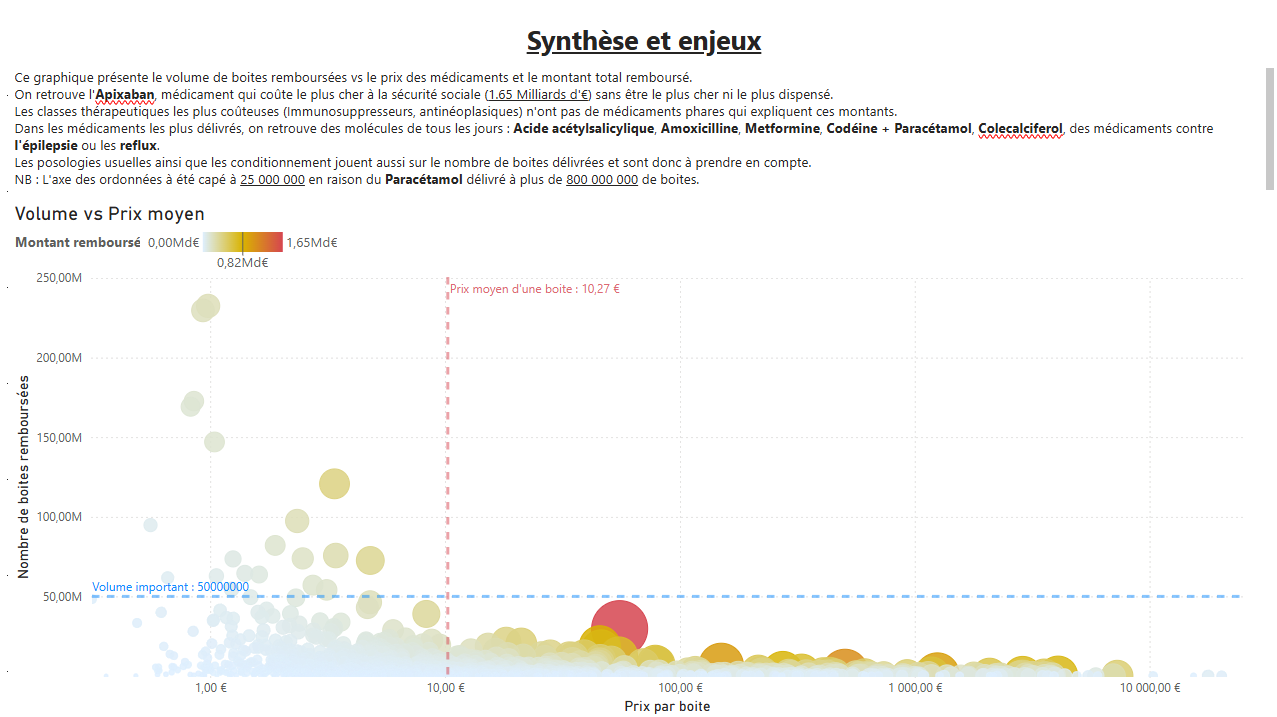
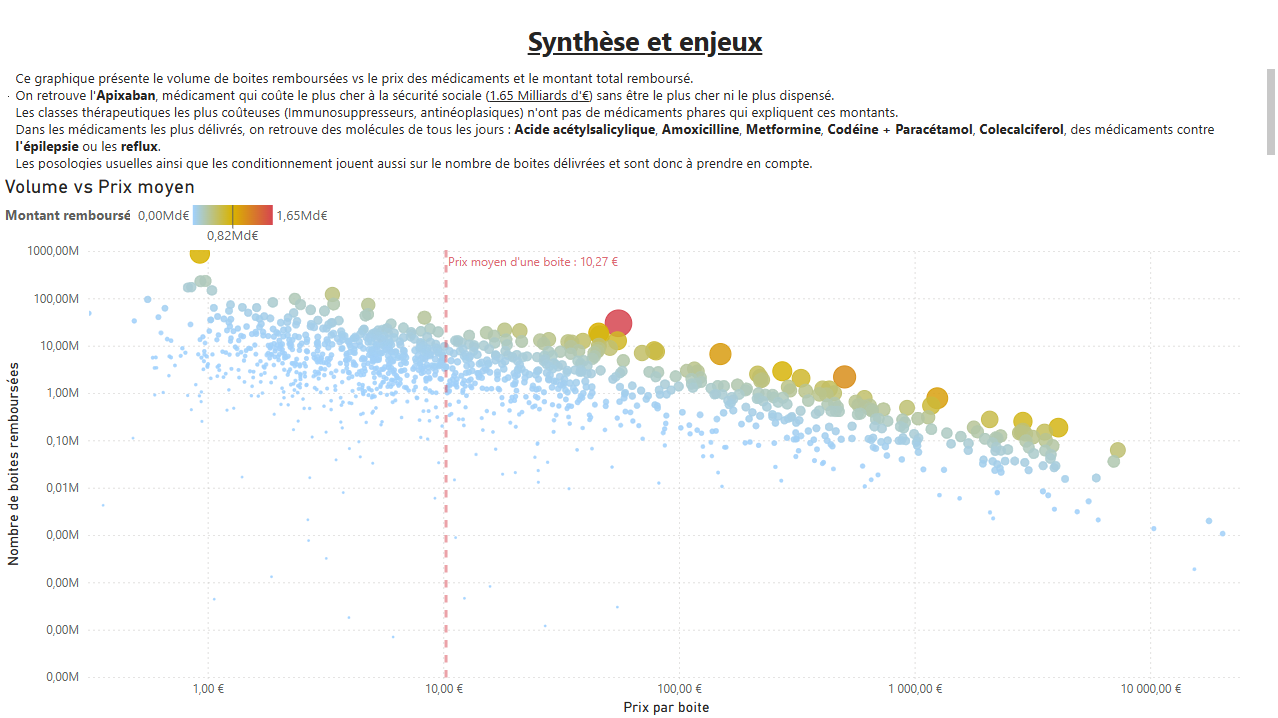
ajout synthèse

diff --git a/app_pages/medicaments.py b/app_pages/medicaments.py
@@ -113,7 +113,7 @@ def render():
 
     with col7:
         if depenses_path.exists():
-             st.image(str(depenses_path), caption="Analyse détaillée du Top 5", use_column_width=True)
+             st.image(str(depenses_path), caption="Analyse des Dépenses par Substances chimiques", use_column_width=True)
         else:
              st.warning(f"Image non trouvée : {depenses_path}")
 
@@ -157,15 +157,55 @@ def render():
         **Choix méthodologiques :**
         * Pour les **montants totaux**, le dashboard affiche `SUM(Montant_remboursé)` tel que publié dans la base publique :  
         cela reflète la **dépense comptable enregistrée** par l’Assurance Maladie, même si certains montants peuvent être inférieurs à ce qu’ils “devraient” être en théorie.
-        * Pour les **prix moyens par boîte**, une mesure dédiée (non montrée ici mais utilisée ailleurs dans le rapport) ne tient compte que des **lignes effectivement remboursées** (`Montant_remboursé > 0`), afin d’éviter de mélanger :
-            * les boîtes réellement prises en charge par l’AMO,
-            * et les délivrances hors remboursement (0 €) ou manifestement mal codées.
+
 
         Ce cas illustre l’importance de :
-        * confronter les données Open Data à la réalité médico‑économique,
-        * documenter les limites et anomalies repérées,
-        * et adapter les indicateurs (ici, les prix moyens) pour qu’ils restent interprétables.
+        * Confronter les données Open Data à la réalité médico‑économique.
+        * Documenter les limites et anomalies repérées.
         """)
+
+    st.divider()
+
+    # --- SLIDE 5 : SYNTHÈSE & ENJEUX ---
+    st.header("5. Synthèse et enjeux")
+
+    col9, col10 = st.columns([2, 1])
+
+    with col9:
+        if synthese_path.exists():
+             st.image(str(synthese_path), caption="Volume vs Pris moyen (échelle log) - Synthèse globale", use_column_width=True)
+        else:
+             st.warning(f"Image non trouvée : {synthese_path}")
+
+
+    with col10:
+        st.subheader("🔎 Analyse & Insights")
+        st.markdown("""
+        **Méthodologie :**
+        *   **Nuage de points Volume × Prix (double échelle logarithmique) :**  
+            Chaque point représente une **substance chimique** :
+            *   Axe X : **prix moyen par boîte** (échelle log, de ~1 € à > 10 000 €) ;
+            *   Axe Y : **nombre de boîtes remboursées** (échelle log) ;
+            *   Couleur : **montant total remboursé** (du bleu clair au rouge) ;
+            *   Taille : **niveau de dépense** (bulles plus grosses = molécules plus coûteuses).
+        *   **Repère vertical :** une ligne en pointillés matérialise le **prix moyen global d’une boîte (≈ 10,27 €)**, qui permet de comparer instantanément les molécules “bon marché” aux traitements très onéreux.
+
+        **Ce que les données racontent :**
+        1.  **Une diagonale prix/volume très marquée :**  
+            Le nuage forme une diagonale descendante :  
+            plus le **prix par boîte** augmente, plus le **volume remboursé** diminue.  
+            Cela illustre une loi économique intuitive : les traitements très coûteux sont réservés à un plus petit nombre de patients, tandis que les médicaments du quotidien (antalgiques, antibiotiques courants, antidiabétiques…) sont bon marché mais délivrés à grande échelle.
+        2.  **Les extrêmes qui structurent la dépense :**  
+            *   En haut à gauche, on retrouve des molécules **très volumineuses mais peu chères**, comme le **Paracétamol**, qui génèrent des montants importants uniquement par l’effet volume.  
+            *   À droite, au‑delà du prix moyen global, apparaissent les **traitements de spécialité** (anticancéreux, biothérapies, anticoagulants oraux directs).  
+                Certaines bulles rouges isolées (ex. **Apixaban**) combinent **prix élevé** et **volume significatif**, ce qui en fait des contributeurs majeurs à la dépense.
+        3.  **Une vision globale des enjeux :**  
+            Cette synthèse met en évidence que :
+            *   la maîtrise des coûts ne peut pas se limiter aux “gros volumes” ni seulement aux “médicaments chers” ;  
+            *   les principaux enjeux budgétaires se situent **à l’intersection** :  
+                *molécules assez chères pour peser en prix, suffisamment prescrites pour peser en volume*.
+        """)
+
 
     # Pied de page
     st.divider()
